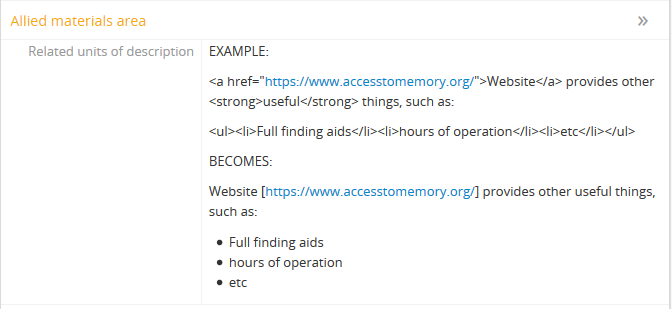
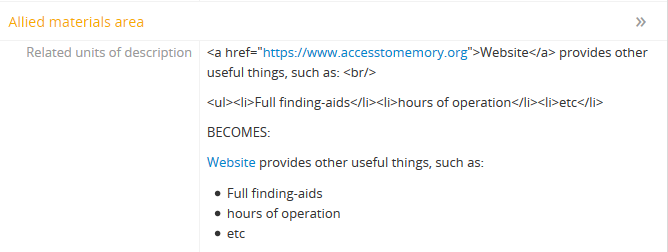
update scrub task to use markdown, refs #9184

diff --git a/admin-manual/maintenance/cli-tools.rst b/admin-manual/maintenance/cli-tools.rst
@@ -665,6 +665,21 @@ remove HTML from archival descriptions - other :term:`entity` types (such as
 archival institution records, accessions, authority records, etc) will not be
 affected.
 
+.. IMPORTANT::
+
+   There are also some fields in the information object (e.g.
+   :term:`archival description`) that **do not** currently support this task -
+   meaning HTML will **not** be removed from these fields by running this CLI
+   task:
+
+   * :ref:`RAD <rad-template>` title note (e.g. Source of title proper,
+     Attributions and conjectures, etc)
+   * General notes fields in any template
+   * :ref:`RAD <rad-template>` Other notes and :ref:`DACS <dacs-template>`
+     Specialized notes (e.g. Variant title information, citation, or
+     record-keeping activity notes in DACS; Accompanying material, cast,
+     editions, or physical description notes in RAD)
+
 **To run the HTML scrub task:**
 
 From the root directory of your AtoM installation, run the following command:
@@ -685,12 +700,11 @@ task terminates:
 
 The task will have the following effects on HTML elements:
 
-* Links will be separated from HTML anchor tags and display text - for
-  example,  ``<a href="http://example.org/foo">Foo</a>`` will become
-  ``Foo [http://example.org/foo]``
-* Email mailto: links will be similarly separated - so for example,
-  ``<a href="mailto:janedoe@example.org">email Jane Doe</a>`` will become
-  ``email Jane Does [janedoe@example.org]``
+* Links, including email ``mailto:`` links, will be replaced with AtoM's
+  custom formatting for links - for more information, see:
+  :ref:`add-custom-links`. This means that after being run, links will now
+  appear in AtoM's view pages as they were intended to when the HTML was
+  added.
 * Styling elements, such as ``<em>``, ``<b>``, ``<strong>``, ``<i>``, etc.
   will be removed with no substitutions (the text they wrap will be
   preserved).
